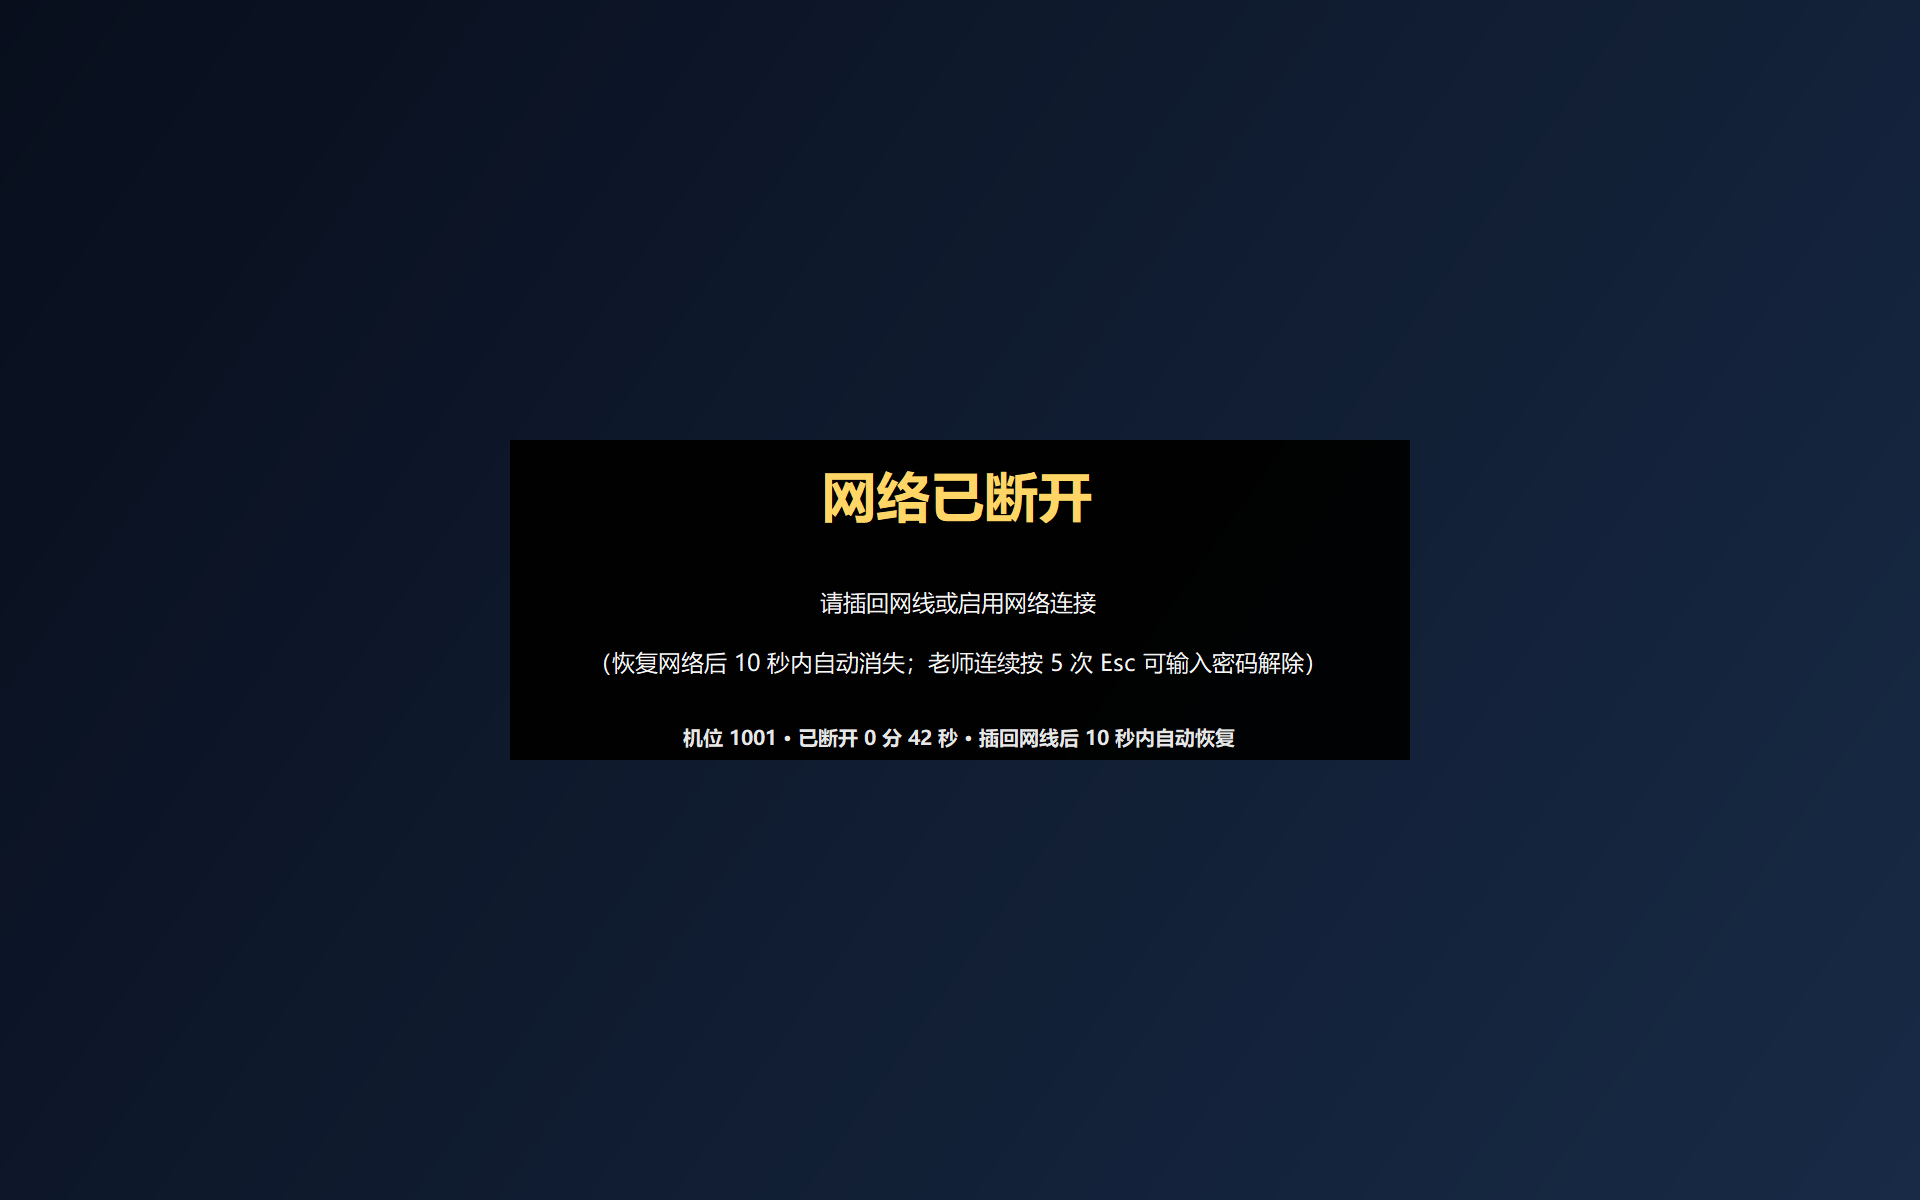
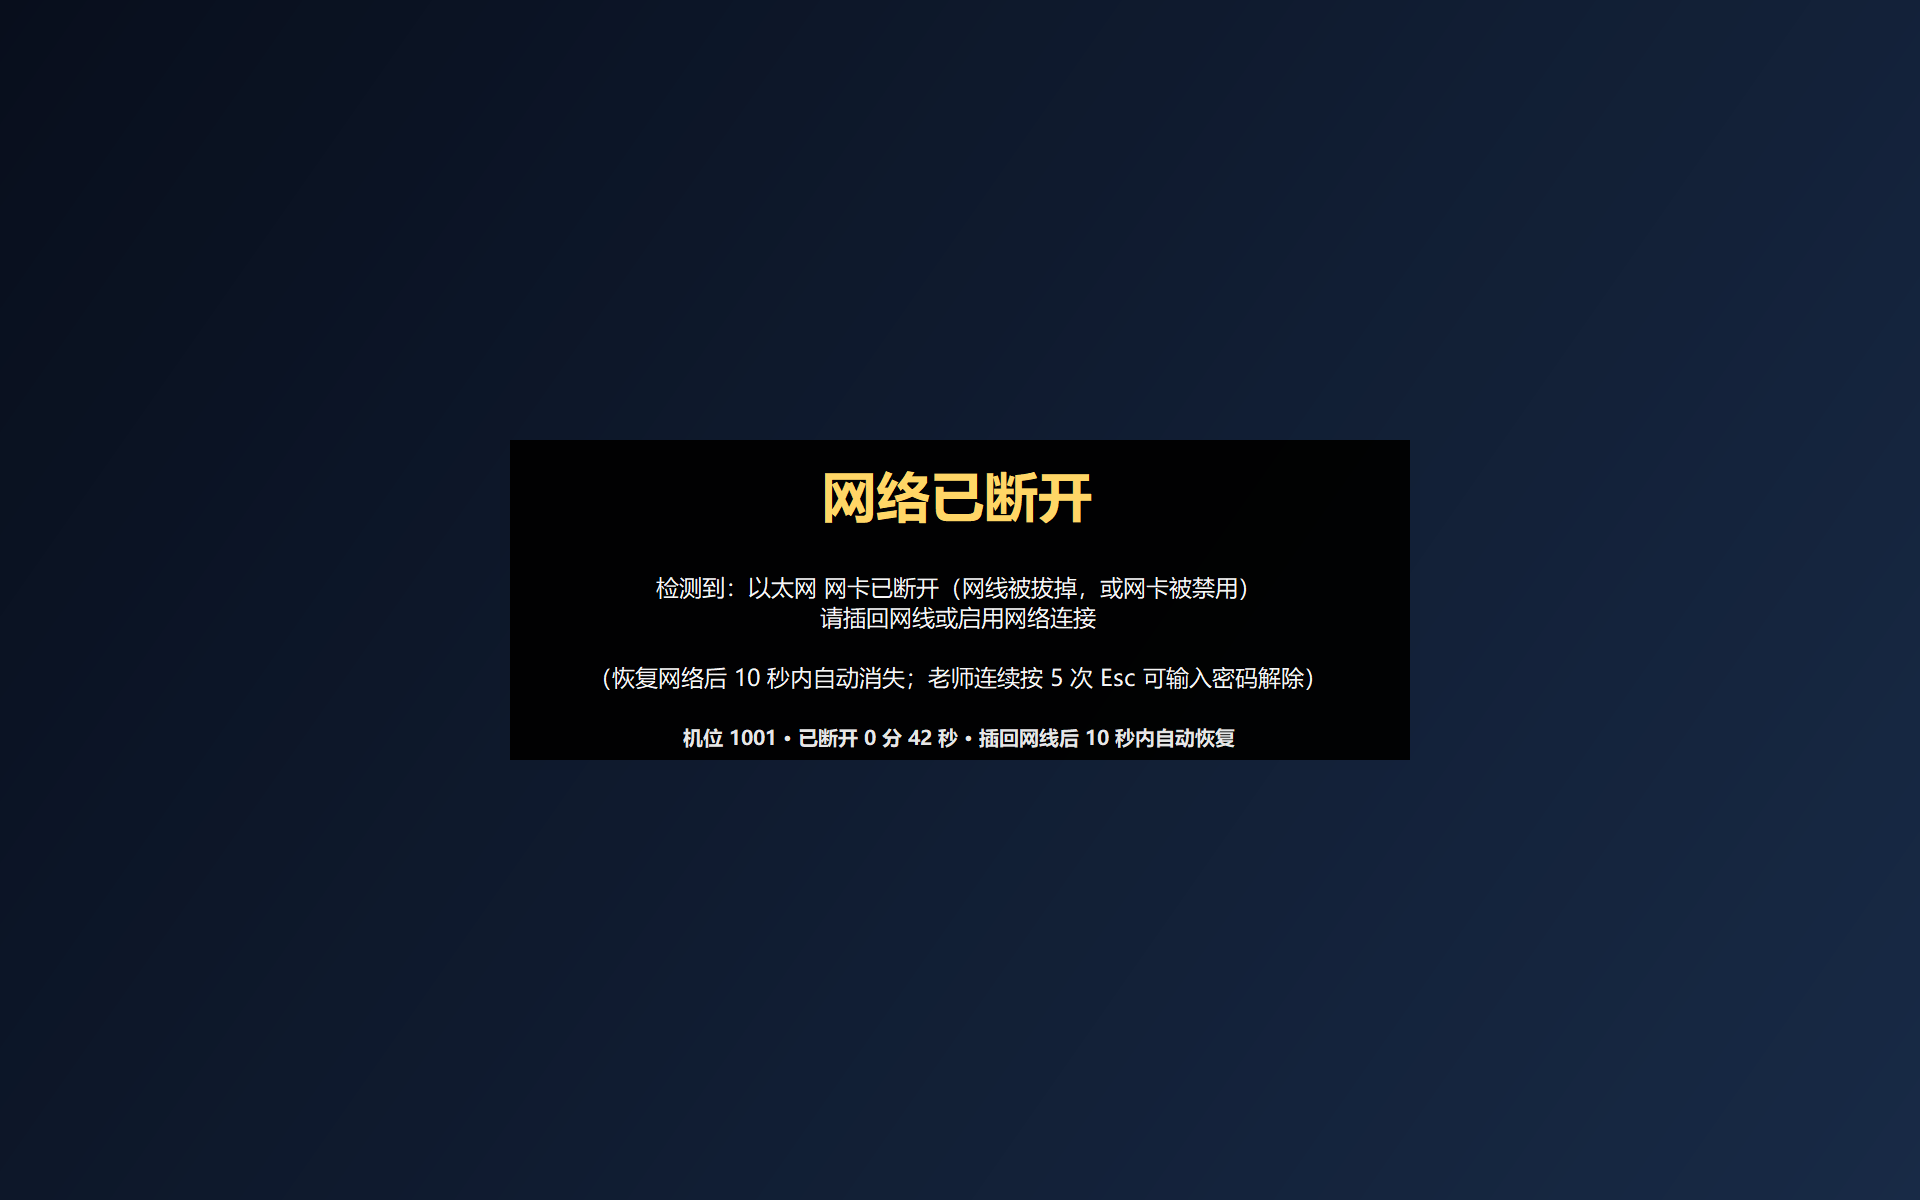
feat(mask): tell students exactly what was detected (P1-b)
The disconnect mask and its log line used to say only 'network disconnected'. NetworkGuard now classifies the reason (NIC gone / link down / IP cleared / APIPA 169.254.x) and states it: '检测到：<网卡> <具体原因>', so students (and the teacher reading logs) see the actual trigger. SelfTest gained a [5.3] block asserting the four reasons are distinct; the mask screenshot was regenerated.

Changed region(s): [[0.3125, 0.4625, 0.6875, 0.5858]]

diff --git a/src/LabGuard.Core/Guards/NetworkGuard.cs b/src/LabGuard.Core/Guards/NetworkGuard.cs
@@ -46,7 +46,21 @@ namespace LabGuard.Core.Guards
         private bool _maskShown;
         private bool _soundDone;
         private bool _pausedByTeacher;
+        private string _downReason = "";
         public bool PausedByTeacher => _pausedByTeacher;
+
+        /// <summary>
+        /// 即时归因：把"判据网卡为什么算断开"翻译成给学生看的**具体原因**，
+        /// 而不是只说一句"违规"——经验上，写明检测到什么能明显减少重复违规。
+        /// </summary>
+        public static string DescribeDown(bool nicExists, bool wasUp, string ip)
+        {
+            if (!nicExists) return "判据网卡已消失（网卡被禁用或被拔掉）";
+            if (!wasUp) return "网卡已断开（网线被拔掉，或网卡被禁用）";
+            if (string.IsNullOrEmpty(ip) || ip == "0.0.0.0") return "IP 已被清空（没拿到地址）";
+            if (ip.StartsWith("169.254.")) return "只拿到 169.254.* 自动地址（网线未接好，或 DHCP 不可达）";
+            return "网络不可用";
+        }
 
         protected override void OnStart()
         {
@@ -85,13 +99,23 @@ namespace LabGuard.Core.Guards
             }
 
             int watchedTotal = 0, watchedDown = 0;
+            _downReason = "";
             foreach (Baseline baseLine in _baseline)
             {
                 if (!baseLine.Watched) continue;
                 watchedTotal++;
                 Baseline now;
                 bool down = !current.TryGetValue(baseLine.Name, out now) || IsDisconnected(now.Ip, now.WasUp);
-                if (down) watchedDown++;
+                if (down)
+                {
+                    watchedDown++;
+                    if (_downReason.Length == 0)
+                    {
+                        bool exists = current.ContainsKey(baseLine.Name);
+                        _downReason = baseLine.Name + " " +
+                            DescribeDown(exists, exists && now != null && now.WasUp, exists && now != null ? now.Ip : null);
+                    }
+                }
             }
 
             bool allDown = watchedTotal > 0 && watchedDown == watchedTotal;
@@ -105,7 +129,7 @@ namespace LabGuard.Core.Guards
 
                 if (elapsed >= DisconnectConfirmSeconds)
                 {
-                    Context.Report(Name, "检测到本机网络已断开：请插回网线或启用网络连接。",
+                    Context.Report(Name, "检测到本机网络已断开（" + _downReason + "）：请插回网线或启用网络连接。",
                         HostAction(), string.Join("/", _watchedNames) + " 已断开 " + (int)elapsed + " 秒");
                     ShowMaskIfNeeded(_unpluggedSince);
                     MaybeSound(_unpluggedSince);
@@ -178,7 +202,7 @@ namespace LabGuard.Core.Guards
             Context.Alert.ShowDisconnectMask(
                 machineNumber,
                 "网络已断开",
-                "请插回网线或启用网络连接",
+                "检测到：" + _downReason + "\r\n请插回网线或启用网络连接",
                 Context.Config.PasswordHash,
                 randomWallpaper,
                 Context.Config.Network.DisconnectMaskShowElapsed,

diff --git a/src/LabGuard.SelfTest/Program.cs b/src/LabGuard.SelfTest/Program.cs
@@ -157,6 +157,23 @@ namespace LabGuard.SelfTest
             LabGuard.Core.Interop.InputLock.Disengage();            // 不应抛异常
             Check("Disengage 在未上锁时也安全", true);
 
+            Console.WriteLine("[5.3] 断网即时归因（遮罩/日志要说清检测到什么）");
+            Check("网卡消失 → 说清了网卡被禁用或拔掉",
+                NetworkGuard.DescribeDown(false, false, null).Contains("消失"));
+            Check("网卡 Down → 说清网线被拔掉/网卡被禁用",
+                NetworkGuard.DescribeDown(true, false, null).Contains("网卡已断开"));
+            Check("IP 清空 → 说清没拿到地址",
+                NetworkGuard.DescribeDown(true, true, "").Contains("IP 已被清空"));
+            Check("0.0.0.0 → 说清没拿到地址",
+                NetworkGuard.DescribeDown(true, true, "0.0.0.0").Contains("IP 已被清空"));
+            Check("169.254.* → 说清网线未接好/DHCP 不可达",
+                NetworkGuard.DescribeDown(true, true, "169.254.10.20").Contains("169.254"));
+            Check("四种原因互不相同",
+                new[] { NetworkGuard.DescribeDown(false, false, null),
+                        NetworkGuard.DescribeDown(true, false, null),
+                        NetworkGuard.DescribeDown(true, true, "0.0.0.0"),
+                        NetworkGuard.DescribeDown(true, true, "169.254.1.2") }.Distinct().Count() == 4);
+
             Console.WriteLine("[5.2] 注册表权限加固（P3）");
             var aclCfg = new GuardConfig().RegistryAcl;
             Check("默认加固 LabGuard 自己的键", aclCfg.Keys.Contains(@"HKEY_LOCAL_MACHINE\SOFTWARE\LabGuard"));

diff --git a/src/LabGuard.Settings/Program.cs b/src/LabGuard.Settings/Program.cs
@@ -48,7 +48,8 @@ namespace LabGuard.Settings
                     // 截图模式不锁输入（否则渲染这几百毫秒里会把操作者的键鼠一起锁住）
                     mask.InputLockMode = LabGuard.Core.Interop.InputLock.ModeOff;
                     LabGuard.Core.UI.UiCapture.ShowOffScreen(mask);
-                    mask.ShowMask("机位 1001", "网络已断开", "请插回网线或启用网络连接",
+                    mask.ShowMask("机位 1001", "网络已断开",
+                        "检测到：以太网 网卡已断开（网线被拔掉，或网卡被禁用）\r\n请插回网线或启用网络连接",
                         string.IsNullOrEmpty(config.PasswordHash) ? PasswordHasher.Create("a1b2c3") : config.PasswordHash,
                         true, true,
                         () => "已断开 0 分 42 秒 · 插回网线后 10 秒内自动恢复",
